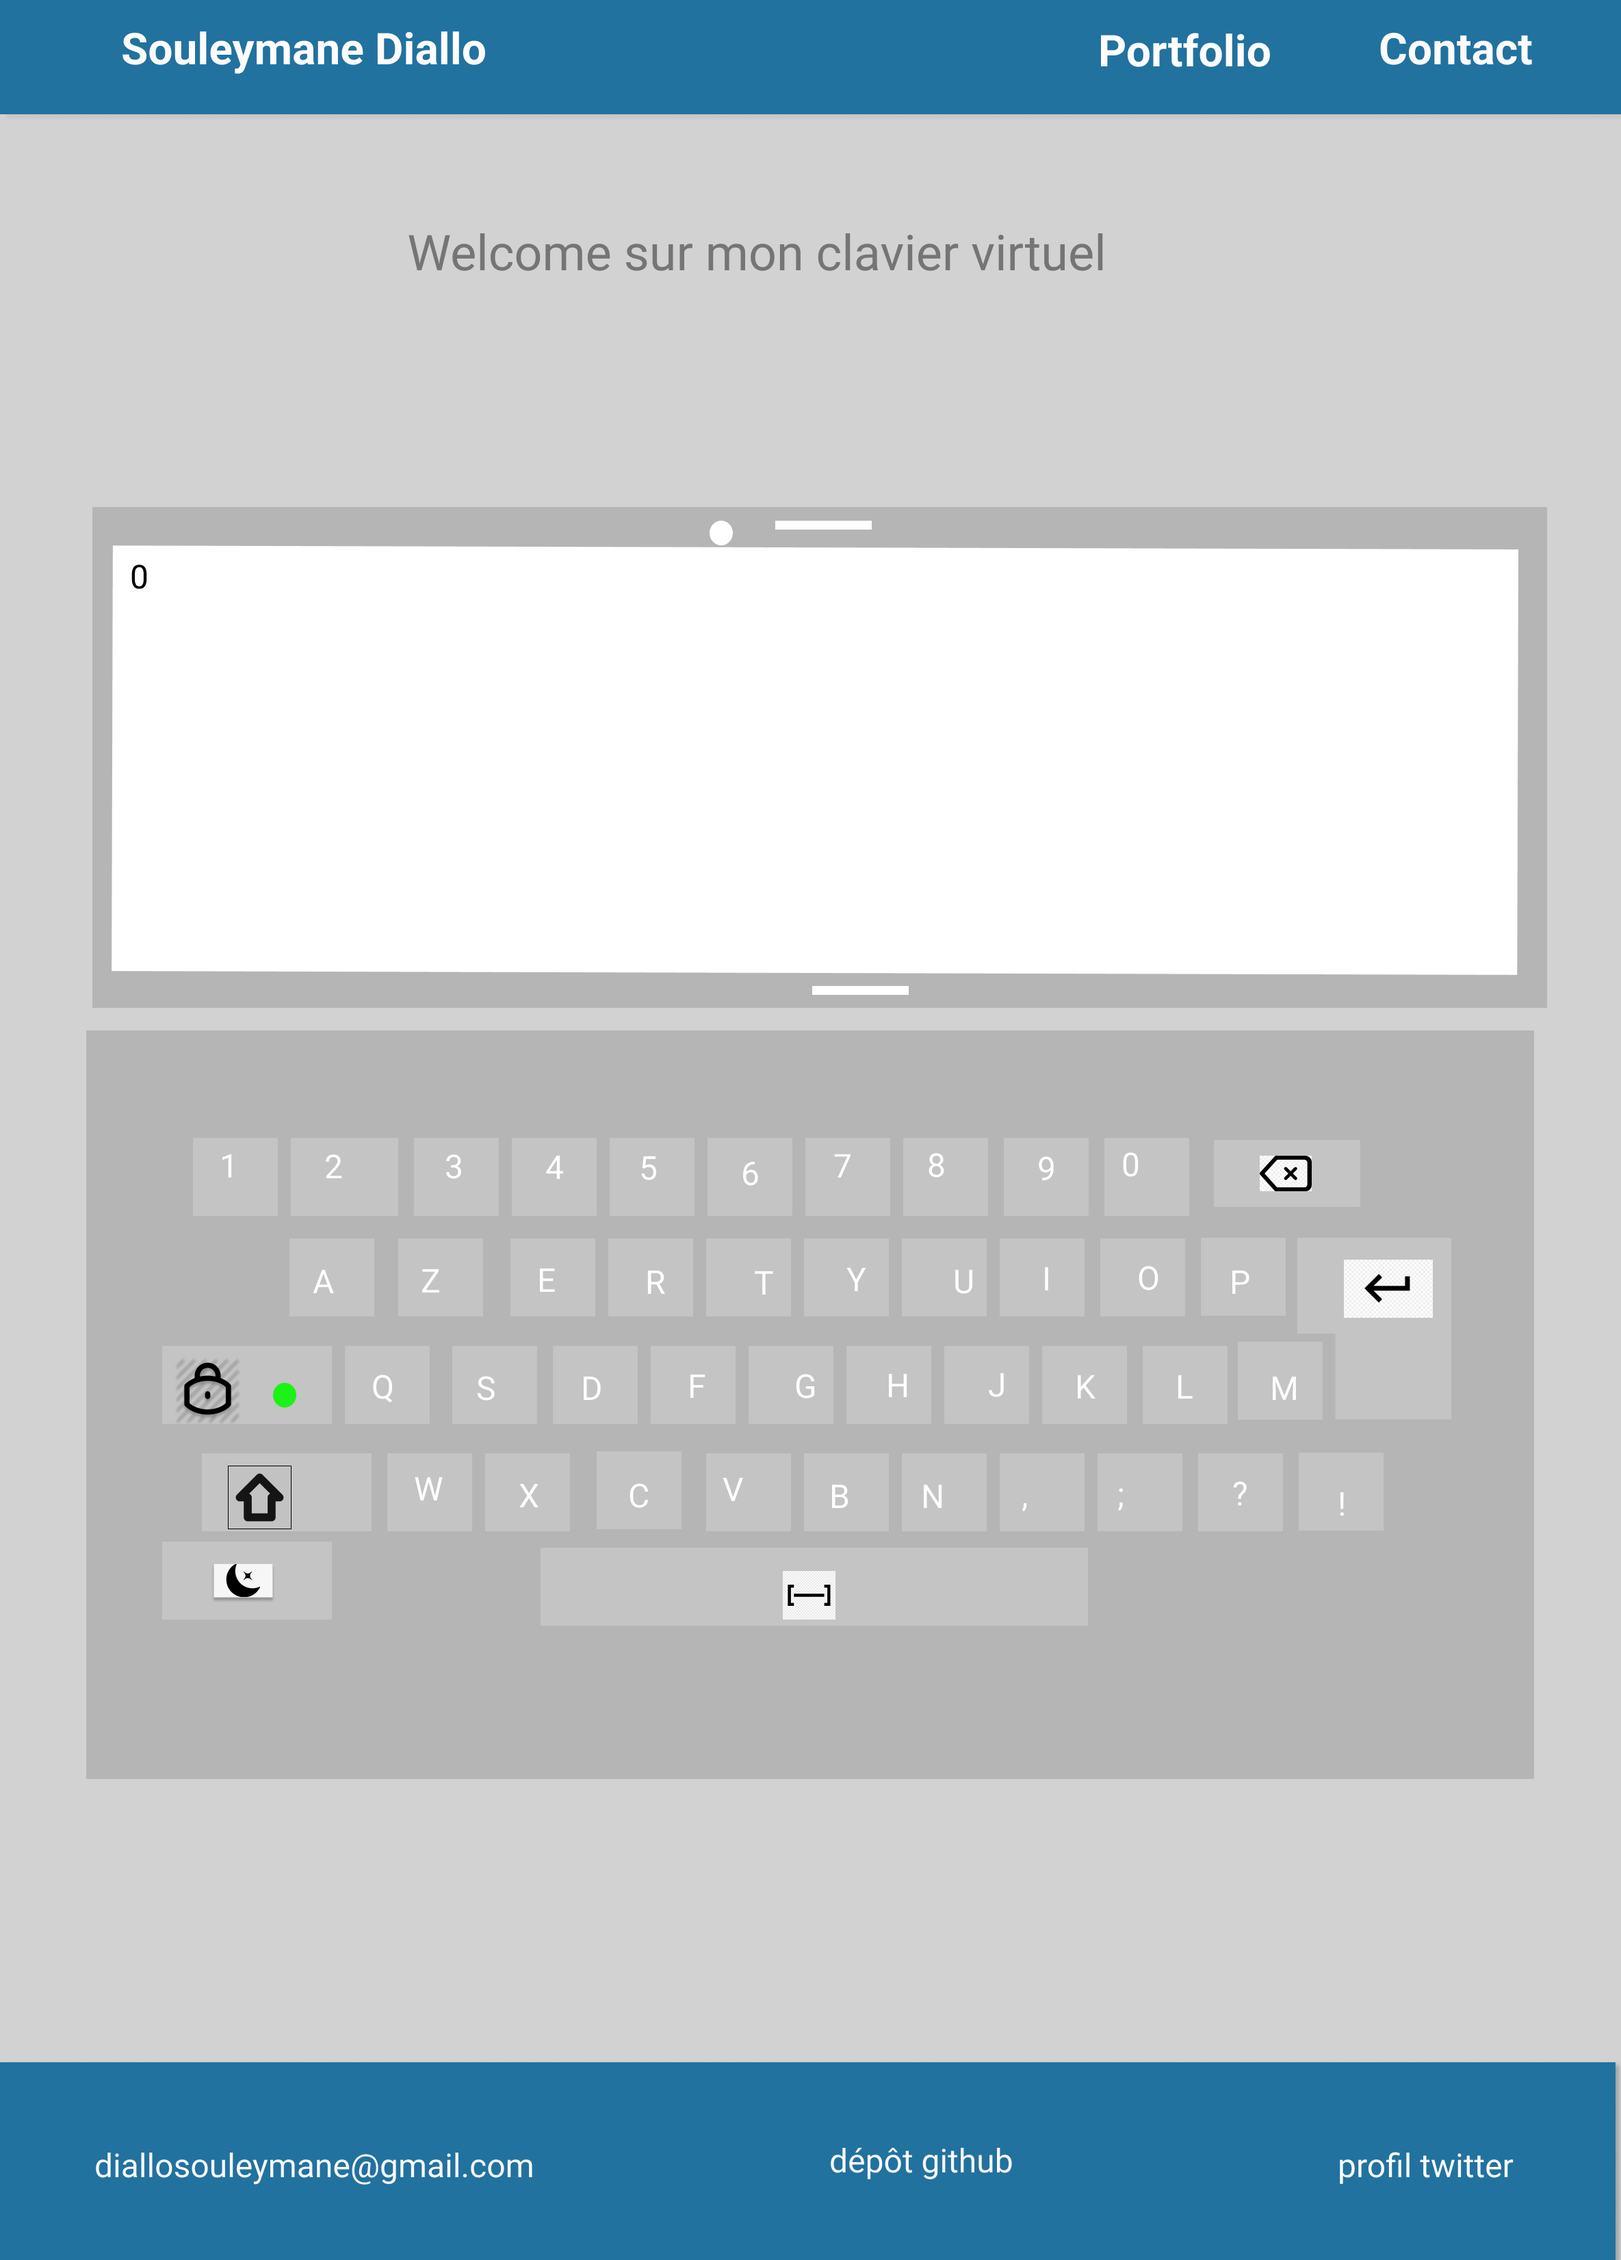
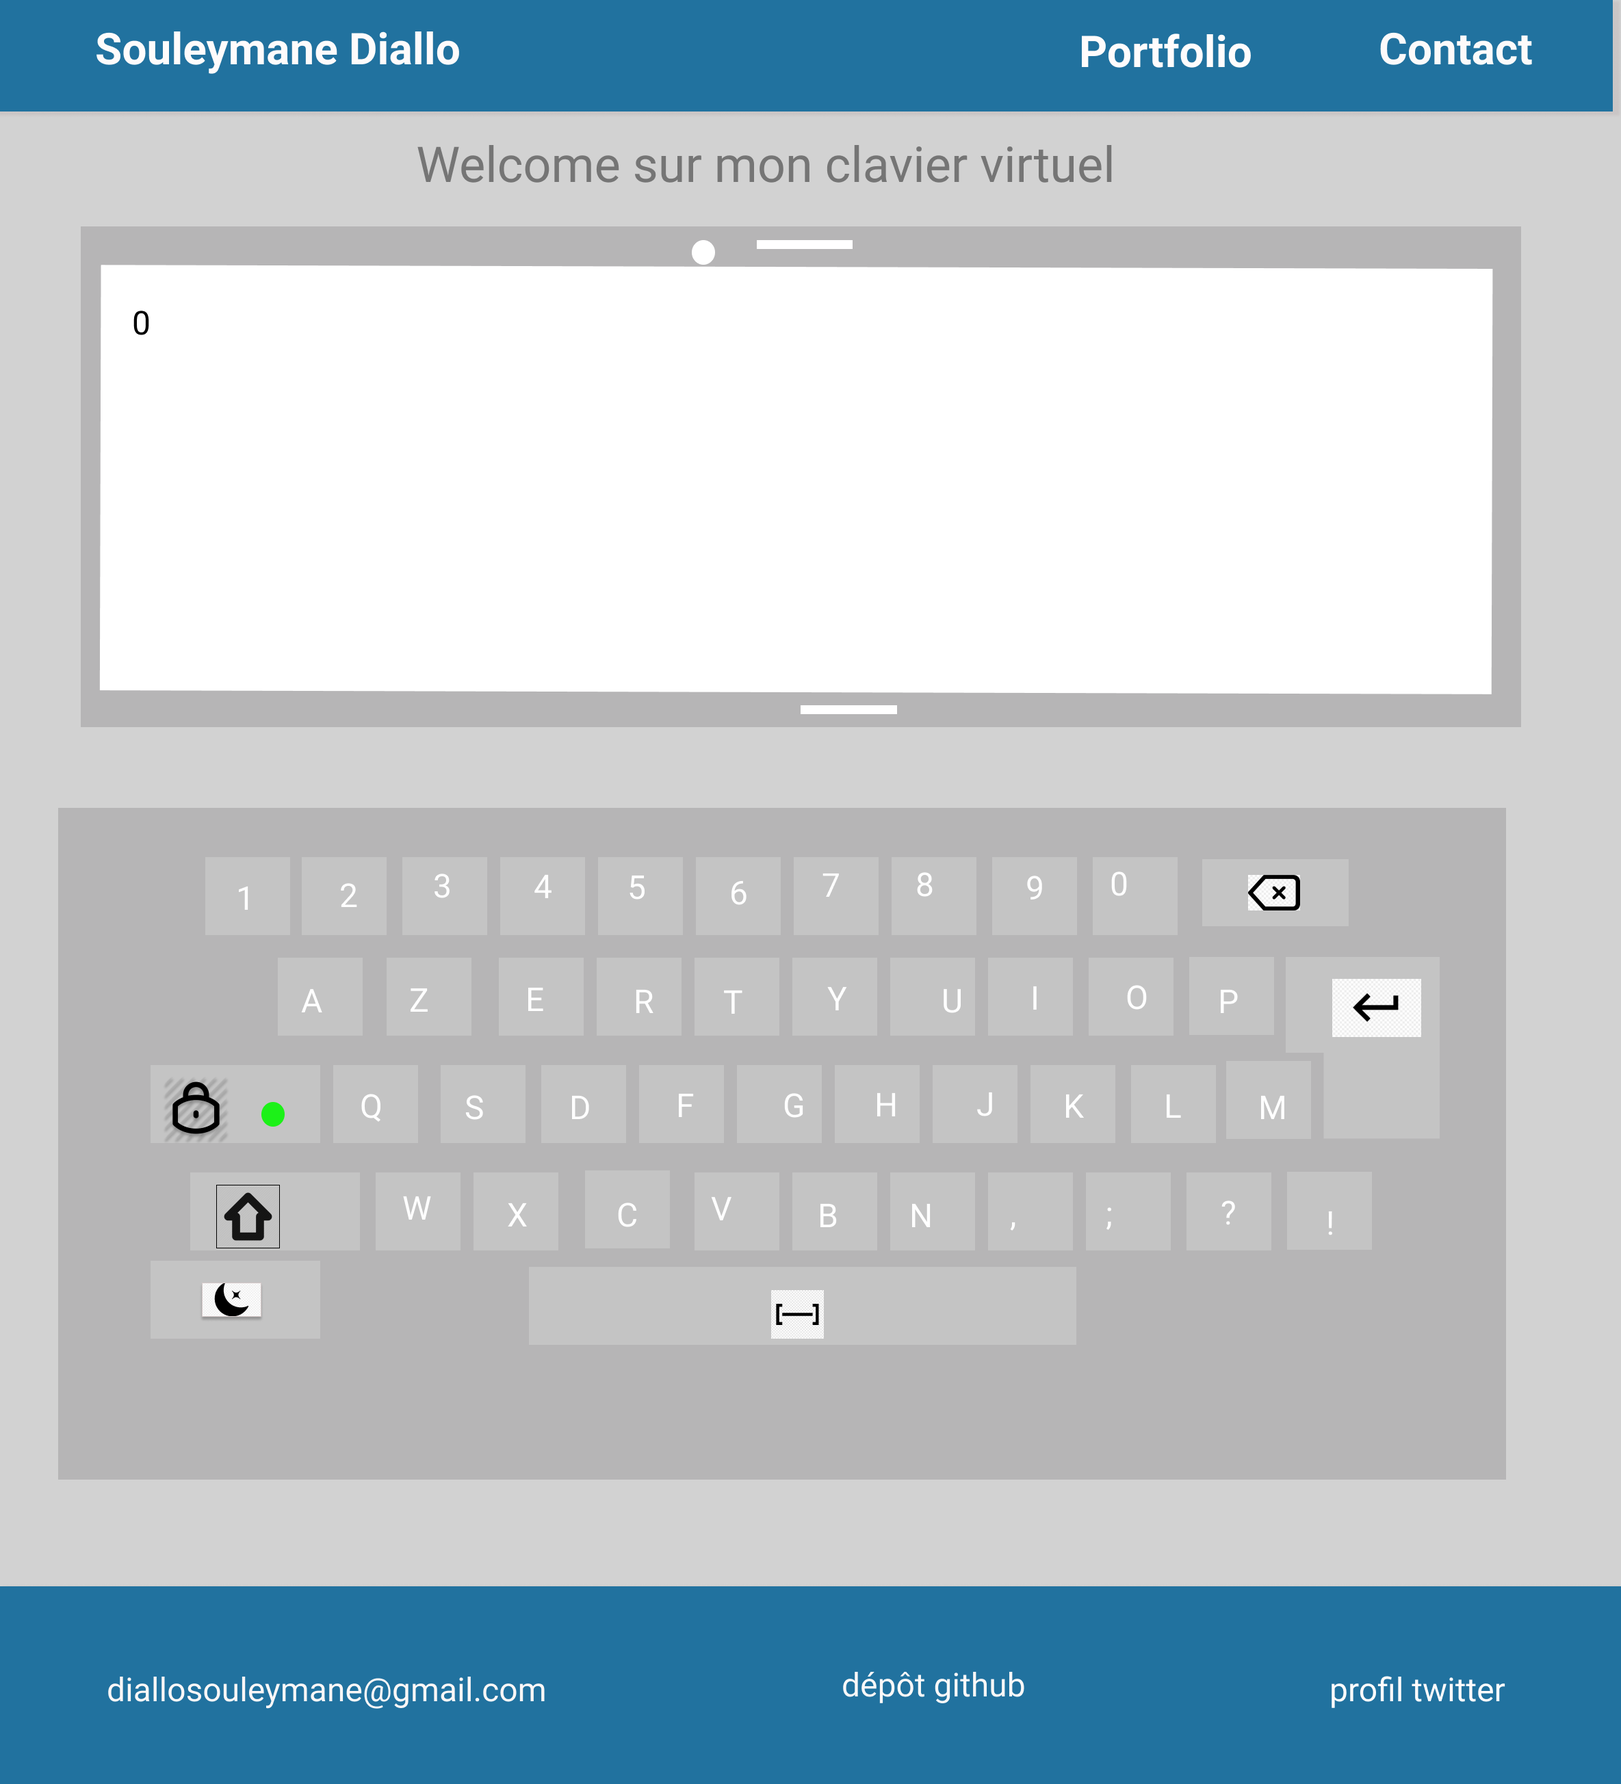
création des fichier index et css

diff --git a/index.html b/index.html
@@ -1,0 +1,82 @@
+<!DOCTYPE html>
+<html lang="en">
+<head>
+    <meta charset="UTF-8">
+    <meta name="viewport" content="width=device-width, initial-scale=1.0">
+    <meta name="" content="">
+    <link rel="stylesheet" href="reset.css">
+    <link href="https://fonts.googleapis.com/css2?family=Roboto:wght@400;500;700&display=swap" rel="stylesheet">
+    <link rel="stylesheet" href="keyboard.css">
+    <title>Clavier virtuel </title>
+</head>
+<body>
+    <div id="container">
+        <header class="topbar">
+            <div class="center">
+                <h1 class="logo">Souleymane DIALLO</h1>
+            <nav class="navbar">
+                <ul>
+                    <li><a href="#">Portfolio</a></li>
+                    <li><a href="#contact">Contact</a></li>
+                </ul>
+            </nav>
+            </div>
+        </header>
+        <main class="main">
+            <section>
+                <h2>Welcome sur mon clavier virtuel</h2>
+                <article class="ecran">
+
+                </article>
+
+            </section>
+            <section>
+                <article class="clavier">
+                    <span class="normal">1</span>
+                    <span class="normal">2</span>
+                    <span class="normal">3</span>
+                    <span class="normal">4</span>
+                    <span class="normal">5</span>
+                    <span class="normal">6</span>
+                    <span class="normal">7</span>
+                    <span class="normal">8</span>
+                    <span class="normal">9</span>
+                    <span class="normal">0</span>
+                    <span class="special">DEL</span>
+                    <span class="normal">A</span>
+                    <span class="normal">Z</span>
+                    <span class="normal">E</span>
+                    <span class="normal">R</span>
+                    <span class="normal">T</span>
+                    <span class="normal">Y</span>
+                    <span class="normal">U</span>
+                    <span class="normal">I</span>
+                    <span class="normal">O</span>
+                    <span class="normal">P</span>
+                    <span class="special">ENTRER</span>
+                    <span class="special">CAPS</span>
+                    <span class="normal">Q</span>
+                    <span class="normal">S</span>
+                    <span class="normal">D</span>
+                    <span class="normal">F</span>
+                    <span class="normal">G</span>
+                    <span class="normal">H</span>
+                    <span class="normal">J</span>
+                    <span class="special"></span>
+                    <span class="space"></span>
+                </article>
+            </section>
+
+        </main>
+        <footer class="footer" id="contact">
+            <ul>
+                <li><a href="#">s.diallo.souleymane.d@gmail.com</a></li>
+                <li><a href="#">github</a></li>
+                <li><a href="#">profil twitter</a></li>
+            </ul>
+
+        </footer>
+    </div>
+    
+</body>
+</html>

diff --git a/keyboard.css b/keyboard.css
@@ -1,0 +1,123 @@
+@charset "utf-8";
+*, *::before, *::after {
+    box-sizing: border-box;
+}
+
+body {
+    font-family: 'Roboto', sans-serif;
+    font-size: 16px;
+
+}
+#container {
+    background-color: #E5E5E5;
+    width: 100%;
+
+}
+.topbar {
+    background: #21729F;
+    width: 100%;
+    color: #FEFBFB;
+    padding: 20px 0;
+    margin-bottom: 50px;
+   
+    
+}
+.center {
+    display: flex;
+    justify-content: space-between;
+    width: 80%;
+    margin: auto;  
+
+}   
+.logo {
+    font-weight: 700;
+    font-size: 1.5rem;
+    align-self: center;
+}
+.navbar ul {
+    display: flex;
+    justify-content: flex-end;
+   
+}
+
+ul li a {
+    text-decoration: none;
+    font-weight: 600;
+    font-size: 1.4rem;
+    color: #FEFBFB ;
+    
+}
+ul li:first-child {
+    margin-right: 50px;
+}
+h2 {
+   
+    font-weight: 600;
+    font-size: 1.5rem;
+    text-align: center;
+    color: rgba(0,0,0, .44);
+    margin-bottom: 20px;
+   
+}
+.ecran {
+    width: 70%;
+    margin: auto;
+    border: 5px solid #B6B5B6;
+    height: 200px;
+    background-color: #FFF;
+    margin-bottom: 10px;
+    
+}
+.clavier {
+    width: 70%;
+    margin: auto;
+    background-color: #B6B5B6;
+    height: 200px;
+    margin-bottom: 30px;
+    padding: 20px 50px;
+}
+.normal, .special, .special {
+    display: inline-block;
+    color: #FEFBFB;
+    text-align: center;
+}
+
+.normal {
+    width: 40px;
+    height: 40px;
+    border: 1px solid #C4C4C4;
+    background-color: C4C4C4;
+
+}
+.special {
+    width: 80px;
+    height: 40px;
+    border: 1px solid #C4C4C4;
+    background-color: C4C4C4;
+}
+.space {
+    width: 90px;
+    height: 30px;
+    border: 1px solid #C4C4C4;
+    background-color: C4C4C4;
+}
+.footer {
+   
+    width: 100%;
+    background-color: #21729F;
+    padding: 20px 0;
+    /* position: fixed;
+    left: 0;
+    bottom: 0; */
+}
+.footer ul {
+    width: 70%;
+    margin: auto;
+    display: flex;
+    justify-content: space-between;
+}
+.footer ul li a {
+    font-size: 1.3rem;
+    font-weight: 500;
+}
+

diff --git a/reset.css b/reset.css
@@ -1,0 +1,48 @@
+/* http://meyerweb.com/eric/tools/css/reset/ 
+   v2.0 | 20110126
+   License: none (public domain)
+*/
+
+html, body, div, span, applet, object, iframe,
+h1, h2, h3, h4, h5, h6, p, blockquote, pre,
+a, abbr, acronym, address, big, cite, code,
+del, dfn, em, img, ins, kbd, q, s, samp,
+small, strike, strong, sub, sup, tt, var,
+b, u, i, center,
+dl, dt, dd, ol, ul, li,
+fieldset, form, label, legend,
+table, caption, tbody, tfoot, thead, tr, th, td,
+article, aside, canvas, details, embed, 
+figure, figcaption, footer, header, hgroup, 
+menu, nav, output, ruby, section, summary,
+time, mark, audio, video {
+	margin: 0;
+	padding: 0;
+	border: 0;
+	font-size: 100%;
+	font: inherit;
+	vertical-align: baseline;
+}
+/* HTML5 display-role reset for older browsers */
+article, aside, details, figcaption, figure, 
+footer, header, hgroup, menu, nav, section {
+	display: block;
+}
+body {
+	line-height: 1;
+}
+ol, ul {
+	list-style: none;
+}
+blockquote, q {
+	quotes: none;
+}
+blockquote:before, blockquote:after,
+q:before, q:after {
+	content: '';
+	content: none;
+}
+table {
+	border-collapse: collapse;
+	border-spacing: 0;
+}
